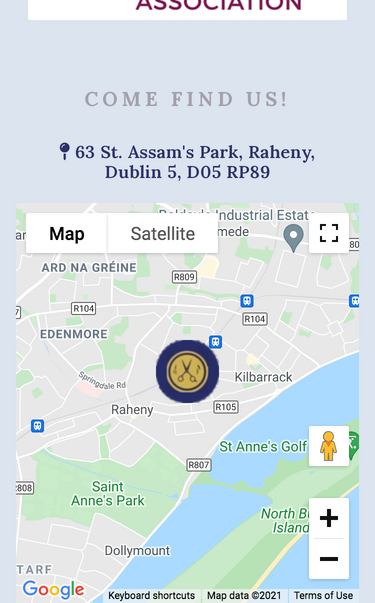
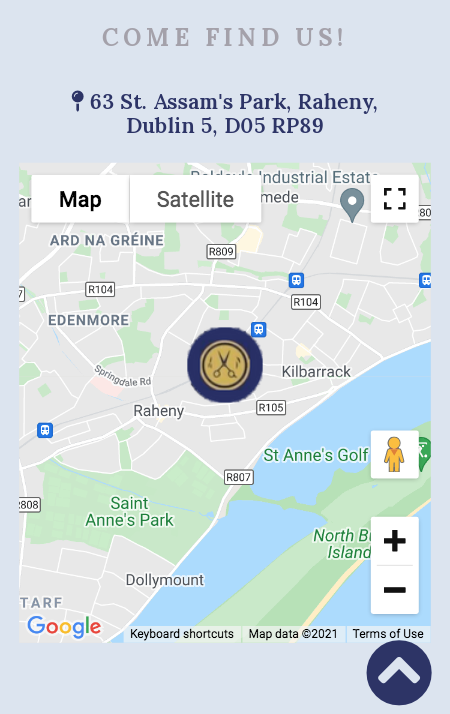
Document Footer subsection of Features section in README

diff --git a/README.md b/README.md
@@ -107,6 +107,7 @@ mobile  |  tablet |  desktop
 
     - The site's above-the-fold real estate on mobile and tablet features a clean, soothing background image of a horizon out to sea. This was chosen due to Brew Barberista's prime location just off the Howth Road in Raheny and less than a kilometre uphill from the Dublin Bay coast road.
     - On page load this landing area is brought to life using animated hero icons: one of a takeaway cup of hot coffee, the other a silhouette of a man with a striking hairstyle. These icons have been enlarged and had a 'zoom-into-view' `@keyframes icon-reveal` animation effect applied to them in order to capture the visitor's attention and also hint at the services available at Brew Barberista.
+    - There is also a gold-coloured downward-pointing chevron icon used to hook the user and encourage them to explore below the fold. This functionality has been enhanced by adding a gentle "bobbing" animation effect in the project's stylesheet
 
   - ##### Desktop (> 991px):
 
@@ -135,7 +136,7 @@ mobile  |  tablet |  desktop
     - These two More Info subsections are stacked on mobile and tablet, and lie side by side on desktop
     - Each panel contains informative blurbs highlighting a variety of USPs offered by Brew Barberista. The text is set against carefully-positioned full-width and -height background images.
     - As screen width increases and space permits, several (initially hidden) elements are revealed across tablet and desktop devices. These include supplementary paragraphs of text and call-to-action `button`s.
-    - The 'Our Partners' CTA `button` (visible on desktop only) in the Brew Coffee `div` directs the user to the 'Our Partners' `section` of the site (see below), while the 'Book Now' `button` (visible on tablet and desktop) beneath the 'Get in touch' Brew Barber heading causes the page to scroll right down to the `footer`, where the business's contact details can be found (see below). 
+    - The 'OUR PARTNERS' CTA `button` (visible on desktop only) in the Brew Coffee `div` directs the user to the 'Our Partners' `section` of the site (see below), while the 'BOOK NOW' `button` (visible on tablet and desktop) beneath the 'Get in touch' Brew Barber heading causes the page to scroll right down to the `footer`, where the business's contact details can be found (see below). 
 
   - ##### Customer Reviews `section`:
 
@@ -190,7 +191,15 @@ mobile  |  tablet |  desktop
     - A `max-width` value of `60rem` has been set on the `.map-container` `div` across desktop devices to prevent the map from sprawling too far horizontally.
     - To create a bespoke and memorable user experience, the default Maps marker image has been replaced by a miniature version of the dark blue and gold Brew Barberista circular logo
 
-- Footer
+- #### Footer:
+
+The site's `footer` element is far from an afterthought, as it contains important contact information and social media links for Brew Barberista. There are three main ways the user might arrive here:
+
+  1) By simply scrolling manually through the entire website
+  2) By clicking the blue 'CONTACT' call-to-action `button` located at the foot of the off-canvas `.navbar-nav` navigation menu (see above)
+  3) By clicking the gold-coloured 'BOOK NOW' CTA button located at the foot of the second `section#more-info > div` on tablet and desktop (see above)
+
+As outlined previously, the choice of a bright shade of cyan as the `background-color` for this area was inspired by the actual coat of paint used on [the facade of Brew Barberista's physical premises](https://www.facebook.com/photo/?fbid=190590879506085&set=a.190590812839425) in D5.
 
 ### Potential future features:
 
